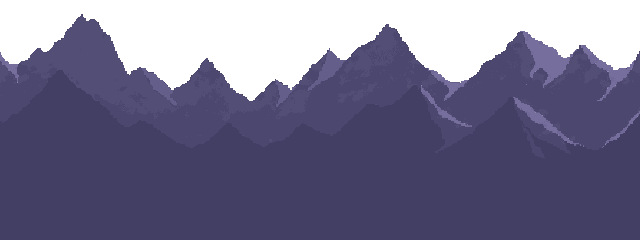
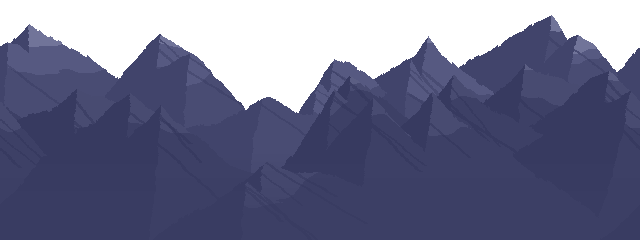
M5: tree line v2, mountains v2 (rugged, blue-violet), cooler sky horizon, sw v448

diff --git a/css/climate.css b/css/climate.css
@@ -32,8 +32,10 @@
     --clm-far: 0; --clm-row1: 0; --clm-row2: 0; --clm-mid: 0; --clm-near: 0;
 }
 
+/* 2026-11-26: hazy / overcast / fog horizons (s1-s3) shifted toward blue by the same hue step as the clear sky (css/gameCanvas.css .scene-sky);
+   storm unchanged (its own green-grey). Was hazy #1c1c3a #302f4c #423f5c, overcast #23223a #34324a #46435a, fog #2c2b3c #3b3a4a #4b4957. */
 #gameCanvas.climate-hazy {
-    --clm-s0: #11112a; --clm-s1: #1c1c3a; --clm-s2: #302f4c; --clm-s3: #423f5c;
+    --clm-s0: #11112a; --clm-s1: #1c1e3a; --clm-s2: #2f324c; --clm-s3: #3f425c;
     --clm-stars: 0.85;
     --clm-moon: 0.9; --clm-g1: 26px; --clm-g2: 8px; --clm-ga: 0.38; --clm-gb: 0.1;
     --clm-rgb: 170, 168, 190;
@@ -41,7 +43,7 @@
 }
 
 #gameCanvas.climate-overcast {
-    --clm-s0: #17172a; --clm-s1: #23223a; --clm-s2: #34324a; --clm-s3: #46435a;
+    --clm-s0: #17172a; --clm-s1: #22233a; --clm-s2: #32334a; --clm-s3: #43455a;
     --clm-stars: 0.6;
     --clm-moon: 0.6; --clm-g1: 16px; --clm-g2: 4px; --clm-ga: 0.25; --clm-gb: 0.05;
     --clm-rgb: 170, 168, 190;
@@ -49,7 +51,7 @@
 }
 
 #gameCanvas.climate-fog {
-    --clm-s0: #1f1f2e; --clm-s1: #2c2b3c; --clm-s2: #3b3a4a; --clm-s3: #4b4957;
+    --clm-s0: #1f1f2e; --clm-s1: #2b2b3c; --clm-s2: #3a3b4a; --clm-s3: #494a57;
     --clm-stars: 0;
     --clm-moon: 0.28; --clm-g1: 10px; --clm-g2: 2px; --clm-ga: 0.15; --clm-gb: 0;
     --clm-rgb: 175, 175, 190;

diff --git a/css/gameCanvas.css b/css/gameCanvas.css
@@ -232,7 +232,9 @@ body.glance-strip .hud-collapse-button { display: none; }
     z-index: -4;
     /* Run climate (2026-11-03, css/climate.css): the --clm-* vars come from the band class on #gameCanvas; with no band the
        fallbacks below are the original colours. */
-    background: linear-gradient(180deg, var(--clm-s0, #0b0b24) 0%, var(--clm-s1, #171735) 35%, var(--clm-s2, #2b2a4a) 68%, var(--clm-s3, #3d3a5c) 100%);
+    /* 2026-11-26 (Jeremy, "B2"): the horizon is cooler (purple-grey -> blue-grey, same lightness) to match the tree line and the
+       blue-violet mountains; was #171735 / #2b2a4a / #3d3a5c. The other bands in css/climate.css moved by the same hue step. */
+    background: linear-gradient(180deg, var(--clm-s0, #0b0b24) 0%, var(--clm-s1, #171936) 35%, var(--clm-s2, #292d4c) 68%, var(--clm-s3, #373c5c) 100%);
 }
 
 /* Twinkling pixel stars (2026-11-01, Jeremy: "a few small ones and a few slightly larger ones",

diff --git a/test/climateWiring.test.js b/test/climateWiring.test.js
@@ -299,7 +299,7 @@ describe('looks key off one class per band', () => {
 
     test('Clear keeps today\'s look: gameCanvas.css fallbacks are the original colours and glow', () => {
         expect(canvasCss).toContain('var(--clm-s0, #0b0b24)');
-        expect(canvasCss).toContain('var(--clm-s3, #3d3a5c)');
+        expect(canvasCss).toContain('var(--clm-s3, #373c5c)'); // cooler horizon 2026-11-26 (was #3d3a5c)
         expect(canvasCss).toContain('var(--clm-g1, 36px)');
         expect(block(css, '#gameCanvas.climate-clear')).not.toMatch(/--clm-s0/);
     });

diff --git a/sw.js b/sw.js
@@ -15,7 +15,7 @@
  * edited CSS/JS) so returning users pick up the update instead of serving a
  * stale cached shell forever — the whole point of a version string here.
  */
-const CACHE_NAME = 'deadline-shell-v447';
+const CACHE_NAME = 'deadline-shell-v448';
 
 const APP_SHELL = [
     './',

diff --git a/Assets/scene/_source/mountains-v2/scripts/mountains.py b/Assets/scene/_source/mountains-v2/scripts/mountains.py
@@ -1,0 +1,127 @@
+"""Mountain layer rework (v2 generator): code-drawn ranges built peak by peak. 640x240 tile, 1 art px = 1 screen px, tiles in x.
+Each peak has a wiggly crest line from its summit down; right of the crest is the lit face (moon on the RIGHT), left is shadow.
+Spur ridges branch down-right off the crest and cast a narrow shadow wedge into the lit face. Farther = lighter, bluer, flatter.
+The low valley stays at column 270 (it sits under the moon)."""
+import math, random
+import numpy as np
+from PIL import Image
+W,H=640,240
+VX=270
+def wrapd(x,c): d=(x-c+W/2)%W-W/2; return d
+def fbm(rng,n,octs=5,amp=1.0):
+    """Periodic 1D fractal noise of length n."""
+    x=np.arange(n)/n*2*np.pi; y=np.zeros(n); a=amp; f=2
+    for _ in range(octs):
+        y+=a*np.sin(f*x+rng.uniform(0,6.28)); y+=a*0.6*np.sin((f+1)*x+rng.uniform(0,6.28)); a*=0.5; f*=2
+    return y
+class Peak:
+    def __init__(s,rng,x,top,sl,sr,rough):
+        s.x=x; s.top=top; s.sl=sl; s.sr=sr; s.rough=rough
+        s.n=fbm(rng,W,7,1.0)
+        st=0; s.j=np.zeros(W)
+        for i in range(W):
+            if rng.random()<0.3: st=rng.choice((-2,-1,0,0,1,2))
+            s.j[i]=st*0.6
+        # crest line: x offset per depth below the summit, drifting left-ish (the lit face is the broad right side)
+        s.crest=np.cumsum([rng.choice((-1,0,0,1))*0.5 - 0.25*sr/max(sl,1e-3)*0.5 for _ in range(H)])
+        s.litd=rng.uniform(22,48)
+        s.spurs=[]
+        for _ in range(rng.randint(1,3)):
+            d0=rng.uniform(6,40); s.spurs.append((d0,rng.uniform(0.9,1.8),rng.uniform(2,5),rng.uniform(20,70)))
+    def prof(s,X):
+        d=wrapd(X,s.x); sl=np.where(d<0,s.sl,s.sr)
+        j=s.j[np.asarray(X,int)%W]
+        return s.top+np.abs(d)*sl+(s.n*s.rough+j)*np.minimum(1,np.abs(d)/14)
+def build_range(rng,peaks,base_y,valley=0.0,vw=60):
+    """Highest peaks first, lower ones drawn after so they sit IN FRONT (overlapping massifs, no vertical seams)."""
+    X=np.arange(W,dtype=float); d=np.abs(wrapd(X,VX)); vshift=valley*np.exp(-(d/vw)**2)
+    order=sorted(range(len(peaks)),key=lambda i:peaks[i].top)
+    own=np.full((H,W),-1,np.int16); top=np.full(W,float(H))
+    Y=np.arange(H)[:,None]
+    for i in order:
+        pr=peaks[i].prof(X)+vshift
+        m=Y>=pr[None,:]; own[m]=i; top=np.minimum(top,pr)
+    base=base_y+fbm(rng,W,4,2.0)+vshift
+    m=(Y>=base[None,:])&(own<0); own[m]=len(peaks)   # filler under everything
+    top=np.minimum(top,base)
+    return top,own,None
+def shade(top,own,peaks,rng):
+    """0 shadow, 1 mid, 2 lit. Lit face = right of the peak's crest; it falls to mid further down (noisy band), spurs cut shadow wedges."""
+    f=np.full((H,W),-1,np.int8); band=fbm(rng,W,5,1.0)
+    for x in range(W):
+        for y in range(int(math.ceil(top[x])),H):
+            i=own[y,x]
+            if i<0: continue
+            if i>=len(peaks): f[y,x]=1; continue
+            p=peaks[i]; dy=max(0,y-p.top); cx=p.x+p.crest[min(H-1,int(dy))]; dx=wrapd(x,cx)
+            if dx>0:
+                v=2 if dy<p.litd+band[x]*p.litd*0.3 else 1
+                for (d0,sl,wd,ln) in p.spurs:
+                    sx=dx-(dy-d0)*sl
+                    if d0<dy<d0+ln and -wd<sx<0: v=min(v,1) if v==2 else 0
+            else:
+                v=0
+            f[y,x]=v
+    return f
+def paint(c,top,fmap,pal,snow=None):
+    for x in range(W):
+        for y in range(max(0,int(math.ceil(top[x]))),H):
+            if fmap[y,x]>=0: c[y,x]=(*pal[fmap[y,x]],255)
+    if snow is not None:
+        m,col=snow; c[m]=(*col,255)
+def snowmask(top,fmap,peaks,own,rng,depth,thresh):
+    """Snow only high on the tallest peaks and only on their lit faces, with a ragged lower edge."""
+    m=np.zeros((H,W),bool); n=fbm(rng,W,5,1.0)
+    for x in range(W):
+        for y in range(int(math.ceil(top[x])),H):
+            i=own[y,x]
+            if i<0 or i>=len(peaks): continue
+            p=peaks[i]
+            if p.top>thresh: continue
+            dy=y-p.top; lim=depth+n[x]*depth*0.45
+            if dy<lim and fmap[y,x]==2: m[y,x]=True
+    return m
+def haze(c,y0,col,k_max=0.55,span=60):
+    for y in range(y0,H):
+        k=min(1,(y-y0)/span)*k_max; m=c[y,:,3]>0
+        c[y,m,:3]=np.round(c[y,m,:3]*(1-k)+np.array(col)*k).astype(np.uint8)
+def peaks_for(rng,n,top_rng,sl_rng,rough,avoid=VX,avoid_w=40,shoulders=True):
+    """n main peaks spread around the tile, each with 0-2 lower shoulder peaks, all with uneven slopes and rough edges."""
+    out=[]; xs=np.linspace(0,W,n,endpoint=False)+rng.uniform(0,W/n)
+    for x in xs:
+        x=(x+rng.uniform(-W/n*0.35,W/n*0.35))%W
+        t=rng.uniform(*top_rng)
+        if abs(wrapd(x,avoid))<avoid_w: t+=40
+        sl=rng.uniform(*sl_rng); sr=rng.uniform(*sl_rng)*rng.uniform(0.6,1.1)
+        out.append(Peak(rng,x,t,sl,sr,rough*rng.uniform(0.7,1.3)))
+        if shoulders:
+            for _ in range(rng.choice((0,1,1,2))):
+                side=rng.choice((-1,1)); off=rng.uniform(12,34)*side
+                out.append(Peak(rng,(x+off)%W,t+rng.uniform(8,26),sl*rng.uniform(0.8,1.3),sr*rng.uniform(0.8,1.3),rough*rng.uniform(0.6,1.1)))
+    return out
+def build(kind,seed=1):
+    rng=random.Random(seed); c=np.zeros((H,W,4),np.uint8)
+    if kind=='A':     # rugged range with muted snow on the lit faces
+        pf=peaks_for(rng,6,(10,46),(0.6,1.2),6.0); tf,of,_=build_range(rng,pf,118,30,70); ff=shade(tf,of,pf,rng)
+        paint(c,tf,ff,{0:(70,68,104),1:(77,76,112),2:(90,89,126)},(snowmask(tf,ff,pf,of,rng,16,40),(116,116,150)))
+        pn=peaks_for(rng,7,(58,98),(0.55,1.1),4.5); tn,on,_=build_range(rng,pn,150,26,55); fn=shade(tn,on,pn,rng)
+        paint(c,tn,fn,{0:(59,58,93),1:(64,64,99),2:(75,76,110)},(snowmask(tn,fn,pn,on,rng,7,72),(94,95,128)))
+        haze(c,150,(62,62,97))
+    elif kind=='B':   # Appalachian: long, low, rolling ridgelines in three hazy bands (no snow)
+        for i,(n,tr,sl,base,val,pal) in enumerate([
+            (5,(58,72),(0.28,0.42),104,18,{0:(80,79,114),1:(84,84,118),2:(91,91,125)}),
+            (6,(88,104),(0.30,0.46),132,16,{0:(69,69,103),1:(73,73,107),2:(81,82,115)}),
+            (7,(118,132),(0.32,0.50),160,12,{0:(59,60,93),1:(63,64,97),2:(70,72,104)})]):
+            p=peaks_for(rng,n,tr,sl,3.0,shoulders=False); t,o,_=build_range(rng,p,base,val,80); f=shade(t,o,p,rng); paint(c,t,f,pal)
+    else:             # C: distant snowy massif behind darker, rounded foothills
+        pf=peaks_for(rng,5,(6,40),(0.6,1.2),6.5); tf,of,_=build_range(rng,pf,110,34,80); ff=shade(tf,of,pf,rng)
+        paint(c,tf,ff,{0:(76,75,110),1:(83,83,118),2:(97,97,132)},(snowmask(tf,ff,pf,of,rng,26,36),(124,125,156)))
+        haze(c,110,(80,80,115),0.35,80)
+        pm=peaks_for(rng,7,(100,126),(0.30,0.55),3.0,shoulders=False); tm,om,_=build_range(rng,pm,150,18,60); fm=shade(tm,om,pm,rng)
+        paint(c,tm,fm,{0:(58,58,92),1:(62,63,96),2:(70,72,104)})
+    return c
+if __name__=='__main__':
+    import sys
+    seeds={'A':3,'B':5,'C':7}
+    for a in sys.argv[1:]: k,v=a.split('='); seeds[k]=int(v)
+    for k in 'ABC': Image.fromarray(build(k,seeds[k]),'RGBA').save(f'mt/mountains_{k}.png')

diff --git a/Assets/scene/_source/mountains-v2/scripts/scene.py b/Assets/scene/_source/mountains-v2/scripts/scene.py
@@ -1,0 +1,66 @@
+"""Scene mock renderer for the treeline rework (adapted from Assets/scene/_source/village-road/scripts/base.py)."""
+import json, subprocess
+from PIL import Image, ImageDraw, ImageEnhance
+P='/home/claude/jest/proj'; A=P+'/Assets'
+def img(p): return Image.open(f'{A}/{p}').convert('RGBA')
+def tile(c, im, y, x0):
+    x = -(x0 % im.width)
+    while x < c.width:
+        t=Image.new('RGBA',c.size,(0,0,0,0)); t.paste(im,(x,y)); c.alpha_composite(t); x += im.width
+def layout(W,H,baseW,tier=3):
+    tiers={k:tier for k in ['punctuality','defense','slain','nights','lurkers','heroes','habits','bestdays','goals']}
+    js="const C=require('%s/js/config.js');global.CONFIG=C;const V=require('%s/js/villageLayout.js');const s=V.villageSlots(%d,%d,%d,120,%s,V.fromConfig(C));console.log(JSON.stringify({s,p:V.padRect(s),sh:s.map(V.shadowRect),r:V.roadRect(s,%d)}))"%(P,P,W,H,baseW,json.dumps(tiers),baseW)
+    return json.loads(subprocess.check_output(['node','-e',js]))
+def paste(c, im, x, y):
+    t=Image.new('RGBA',c.size,(0,0,0,0)); t.paste(im,(x,y)); c.alpha_composite(t)
+_cache={}
+def hx(h): return tuple(int(h[i:i+2],16) for i in (1,3,5))
+SKY_GAME=[(0,hx('#0b0b24')),(0.35,hx('#171735')),(0.68,hx('#2b2a4a')),(1.0,hx('#3d3a5c'))]
+SKY=SKY_GAME
+def scene(W,H,baseW,treeline=None,tier=3):
+    key=(W,H,baseW,tier)
+    if key not in _cache: _cache[key]=layout(W,H,baseW,tier)
+    d=_cache[key]; slots=d['s']; hz=H-76
+    c=Image.new('RGBA',(W,H),(11,11,36,255)); dr=ImageDraw.Draw(c)
+    stops=SKY
+    for y in range(H):
+        t=y/(H-1)
+        for (p0,c0),(p1,c1) in zip(stops,stops[1:]):
+            if p0<=t<=p1:
+                k=(t-p0)/(p1-p0); col=tuple(int(round(a+(b-a)*k)) for a,b in zip(c0,c1)); break
+        dr.line([(0,y),(W,y)],fill=(*col,255))
+    paste(c,img('scene/moon.png'),W-30-58,12)
+    tile(c,img('scene/mountains.png'),max(-44,hz-280),640-((W-(30+29-370))%640))
+    tl=treeline or img('scene/treeline.png')
+    tile(c,tl,max(-8,hz-230),404-((W-(30+29-274))%404))
+    f=img('scene/village-field.png'); f=f.resize((f.width*2,f.height*2),Image.NEAREST); tile(c,f,hz-90,0)
+    r=d.get('r')
+    if r:
+        rd=Image.open(P+'/'+r['url']).convert('RGBA'); rd=rd.resize((r['tileWidth'],r['height']),Image.NEAREST); tile(c,rd,r['top'],0)
+    p=img('scene/village-pad.png').resize((d['p']['width'],d['p']['height']),Image.NEAREST); paste(c,p,d['p']['left'],d['p']['top'])
+    if r:
+        for s in r['signs']:
+            paste(c,Image.open(P+'/'+s['url']).convert('RGBA').resize((s['width'],s['height']),Image.NEAREST),s['left'],s['top'])
+    rows={}
+    for i,s in enumerate(slots): rows.setdefault(s['row'],[]).append(i)
+    for row in ('far','back','front'):
+        for i in rows.get(row,[]):
+            q=d['sh'][i]; sh=Image.open(P+'/'+q['url']).convert('RGBA'); sh.putalpha(sh.split()[3].point(lambda v:int(v*q['opacity']))); paste(c,sh,q['left'],q['top'])
+        for i in rows.get(row,[]):
+            s=slots[i]; im=img('Village/%s_t%d.png'%(s['kind'],tier))
+            if s.get('brightness') and s['brightness']<1:
+                al=im.split()[3]; im=ImageEnhance.Brightness(im.convert('RGB')).enhance(s['brightness']).convert('RGBA'); im.putalpha(al)
+            paste(c,im,s['left'],s['top'])
+    lane=img('scene/lane-2track.png').resize((1280,72),Image.NEAREST); tile(c,lane,H-72,(baseW-235))
+    yard=img('scene/lane-yard.png').resize((560,72),Image.NEAREST); paste(c,yard,baseW-384,H-72)
+    gx=W-120-48
+    for fn,h in (('graveyard-ground',80),('graveyard-fence-back',104),('graveyard-fence-front',48)):
+        paste(c,img(f'scene/{fn}.png').resize((168,h),Image.NEAREST),gx,H-h)
+    b=img('Base/base_100.png').resize((368,400),Image.NEAREST); paste(c,b,baseW-372,H-398)
+    return c
+if __name__=='__main__':
+    import numpy as np
+    c=scene(1366,480,368).convert('RGB'); c.save('out/current_laptop.png')
+    ref=Image.open(A+'/scene/_source/village-road/mocks/final_laptop_1366x480.png').convert('RGB')
+    d=(np.array(c).astype(int)-np.array(ref).astype(int)); print('diff px vs last night mock:',int((abs(d).sum(2)>0).sum()), 'road', _cache[(1366,480,368,3)]['r'] is not None)
+    scene(800,360,188).convert('RGB').save('out/current_phone.png')

diff --git a/Assets/scene/_source/mountains-v2/scripts/ridges.py b/Assets/scene/_source/mountains-v2/scripts/ridges.py
@@ -1,0 +1,33 @@
+"""Mountain option B2: low rolling ridges in three hazy bands + ONE taller peak toward the left (Jeremy 2026-11-26).
+Tile 1920x240 (no repeat on laptop / desktop); meant to be anchored to the CHURCH (left), not the moon:
+the tall peak's summit is at tile column PEAK_X, shown at --base-w + PEAK_OFF on screen."""
+import random, numpy as np
+from PIL import Image
+import mountains as M
+TW=1920; PEAK_X=420; PEAK_OFF=96
+M.W=TW
+def build(seed=5):
+    rng=random.Random(seed); c=np.zeros((M.H,TW,4),np.uint8)
+    # far band + the tall peak (farthest, lightest)
+    p1=M.peaks_for(rng,14,(58,72),(0.28,0.42),3.0,avoid=-9999,shoulders=False)
+    big=M.Peak(rng,PEAK_X,10,0.62,0.50,5.5); big.litd=60; big.spurs=[(14,1.3,3,40),(30,1.1,3,50),(46,1.5,2,40)]
+    sh=M.Peak(rng,PEAK_X-46,40,0.7,0.6,4.0); sh2=M.Peak(rng,PEAK_X+58,48,0.6,0.7,4.0)
+    p1+= [big,sh,sh2]
+    t,o,_=M.build_range(rng,p1,104,0,80); f=M.shade(t,o,p1,rng)
+    M.paint(c,t,f,{0:(80,79,114),1:(84,84,118),2:(91,91,125)})
+    for (n,tr,sl,base,pal) in [(16,(88,104),(0.30,0.46),132,{0:(69,69,103),1:(73,73,107),2:(81,82,115)}),
+                               (19,(118,132),(0.32,0.50),160,{0:(59,60,93),1:(63,64,97),2:(70,72,104)})]:
+        p=M.peaks_for(rng,n,tr,sl,3.0,avoid=-9999,shoulders=False)
+        t,o,_=M.build_range(rng,p,base,0,80); f=M.shade(t,o,p,rng); M.paint(c,t,f,pal)
+    return c
+if __name__=='__main__':
+    a=build(); Image.fromarray(a,'RGBA').save('mt/mountains_B2_violet.png')
+    import colorsys
+    def recolor(a,hue_to,sat_k):
+        o=a.copy(); m=a[:,:,3]>0
+        for col in np.unique(a[m][:,:3],axis=0):
+            h,l,s=colorsys.rgb_to_hls(*(col/255)); r=colorsys.hls_to_rgb(hue_to/360,l,min(1,s*sat_k))
+            sel=m&(a[:,:,:3]==col).all(2); o[sel,:3]=np.round(np.array(r)*255)
+        return o
+    Image.fromarray(recolor(a,236,1.15),'RGBA').save('mt/mountains_B2_bluviolet.png')
+    Image.fromarray(recolor(a,226,1.35),'RGBA').save('mt/mountains_B2_moonblue.png')

diff --git a/Assets/scene/_source/mountains-v2/README.md b/Assets/scene/_source/mountains-v2/README.md
@@ -1,0 +1,29 @@
+# Mountains v2 + cooler sky horizon (2026-11-26, Claude app session)
+
+Replaces `Assets/scene/mountains.png` (the 2026-11-07 PixelLab range, kept here as `mountains_v1_2026-11-07.png`).
+Same size (640x240, 1:1), same placement and CSS (`.scene-mountains`, top at `--clm-hz` - 280 px, the low valley at tile
+column 270 still sits under the moon). Code-drawn, not PixelLab.
+
+## What Jeremy picked
+- Round 1 (`mocks/mountains_round1_*`): A rugged range / B low rolling ridges / C distant massif + foothills.
+- Colour: grey options felt "too black and white" (`mocks/mountains_C_colours_laptop.png`); colour-rich options next
+  (`mountains_C_colours2_laptop.png`). Leaned to B with one taller peak on the left because the towers read better in the
+  sky (`mountainsB2_colours_*`; needs a 1920 tile anchored to the church), then looked at A again
+  (`mountainsA_colours_*`) and was "fine with the height".
+- Sky: `mocks/sky_x_mountains_laptop.png` (real game sky vs a cooler horizon, x 3 mountain colours). Picked **B2** =
+  cooler horizon + **A in blue-violet**.
+
+## The final
+`mountains_A_bluviolet_final_640x240.png` = the shipped file: `scripts/mountains.py` `build('A', 3)` (two ranges built peak
+by peak: lit face right of each crest (moon on the right), shadow face left, spur ribs, muted snow only high on the lit
+faces of the tallest peaks, haze toward the foot), recoloured to hue 236 with saturation x1.15 (between the sky, ~237-240,
+and the tree line, ~233). 23 colours, no semi-transparent pixels, tiles.
+
+## Sky (CSS, not art)
+`css/gameCanvas.css` `.scene-sky` fallbacks (= Clear): s1 #171735 -> #171936, s2 #2b2a4a -> #292d4c, s3 #3d3a5c -> #373c5c
+(purple-grey horizon -> blue-grey, same lightness; s0 unchanged). `css/climate.css`: hazy / overcast / fog s1-s3 moved by the
+same hue step (-4 / -8 / -13 deg, lightness and saturation kept); storm unchanged. `test/climateWiring.test.js` updated.
+
+## Scripts
+`mountains.py` (options A / B / C), `ridges.py` (B2 ridges + tall peak, 1920 wide, NOT used), `scene.py` (mock renderer, now
+with the game's real sky gradient; earlier mocks before `sky_x_mountains` used a simplified bluer sky).
